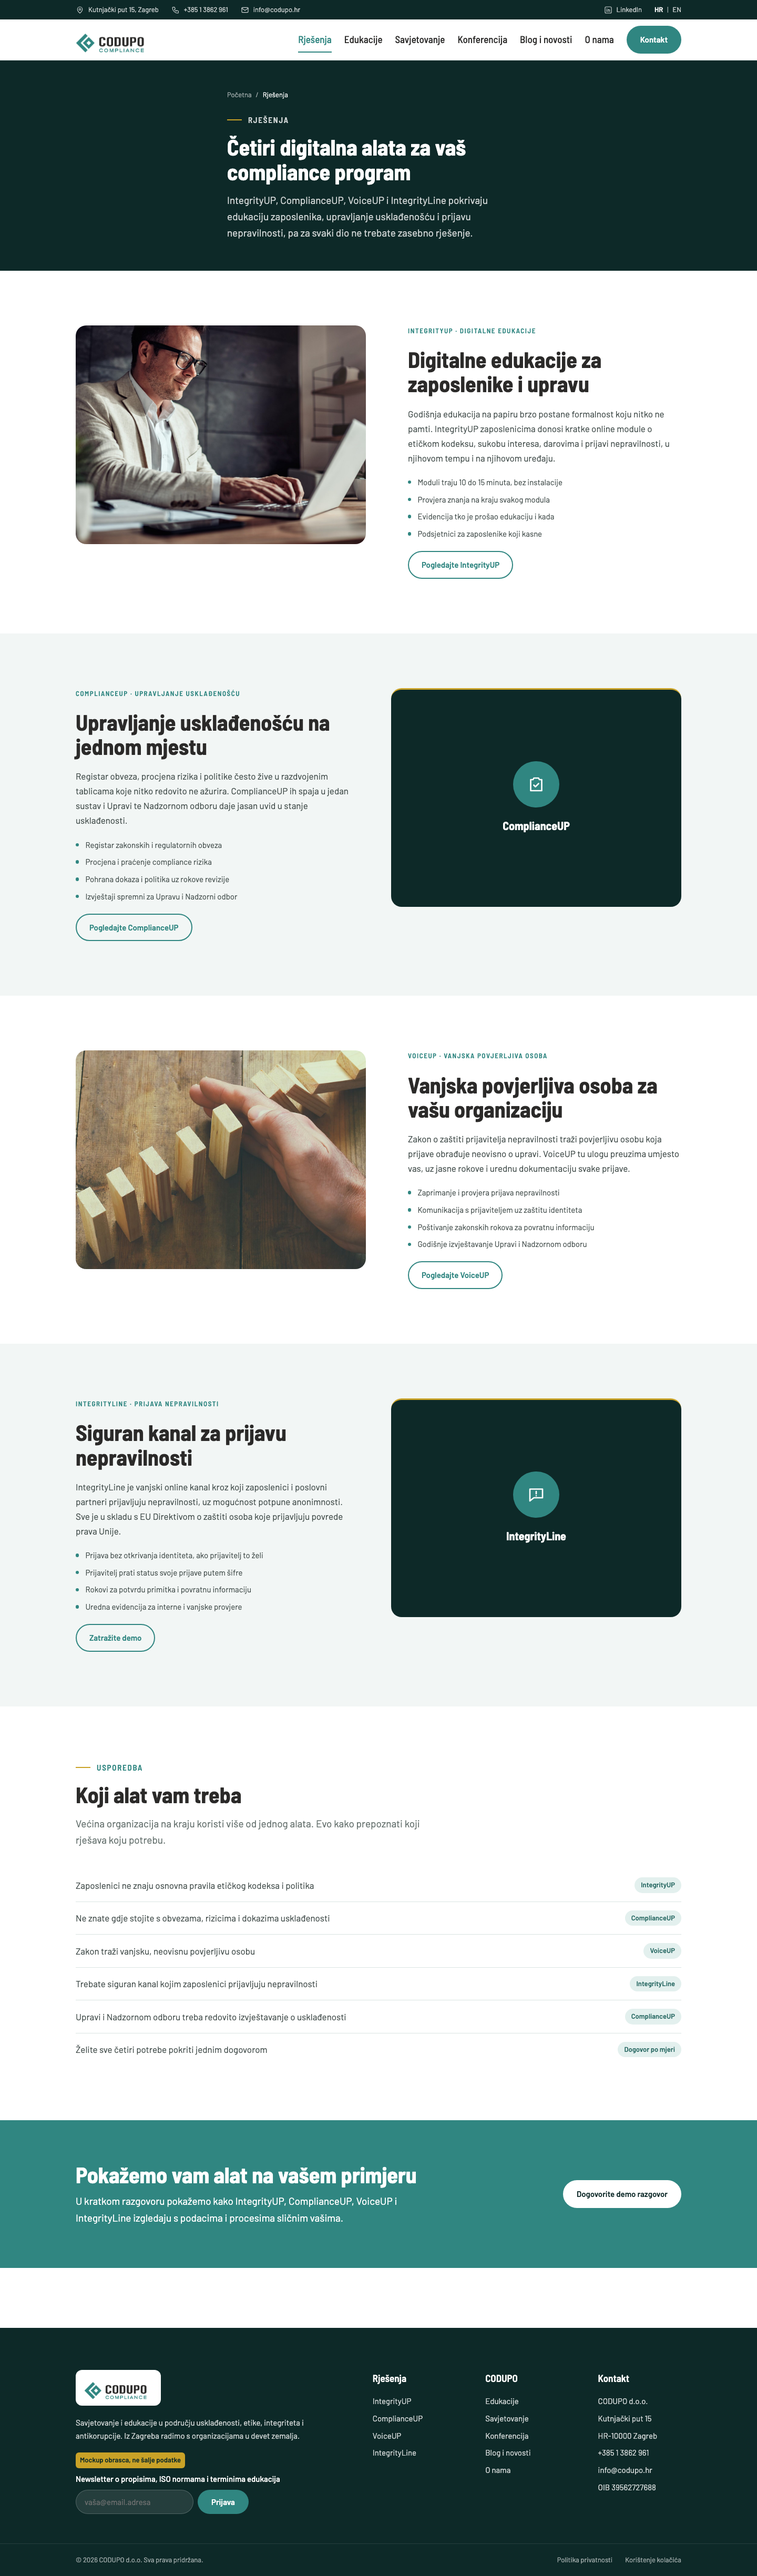
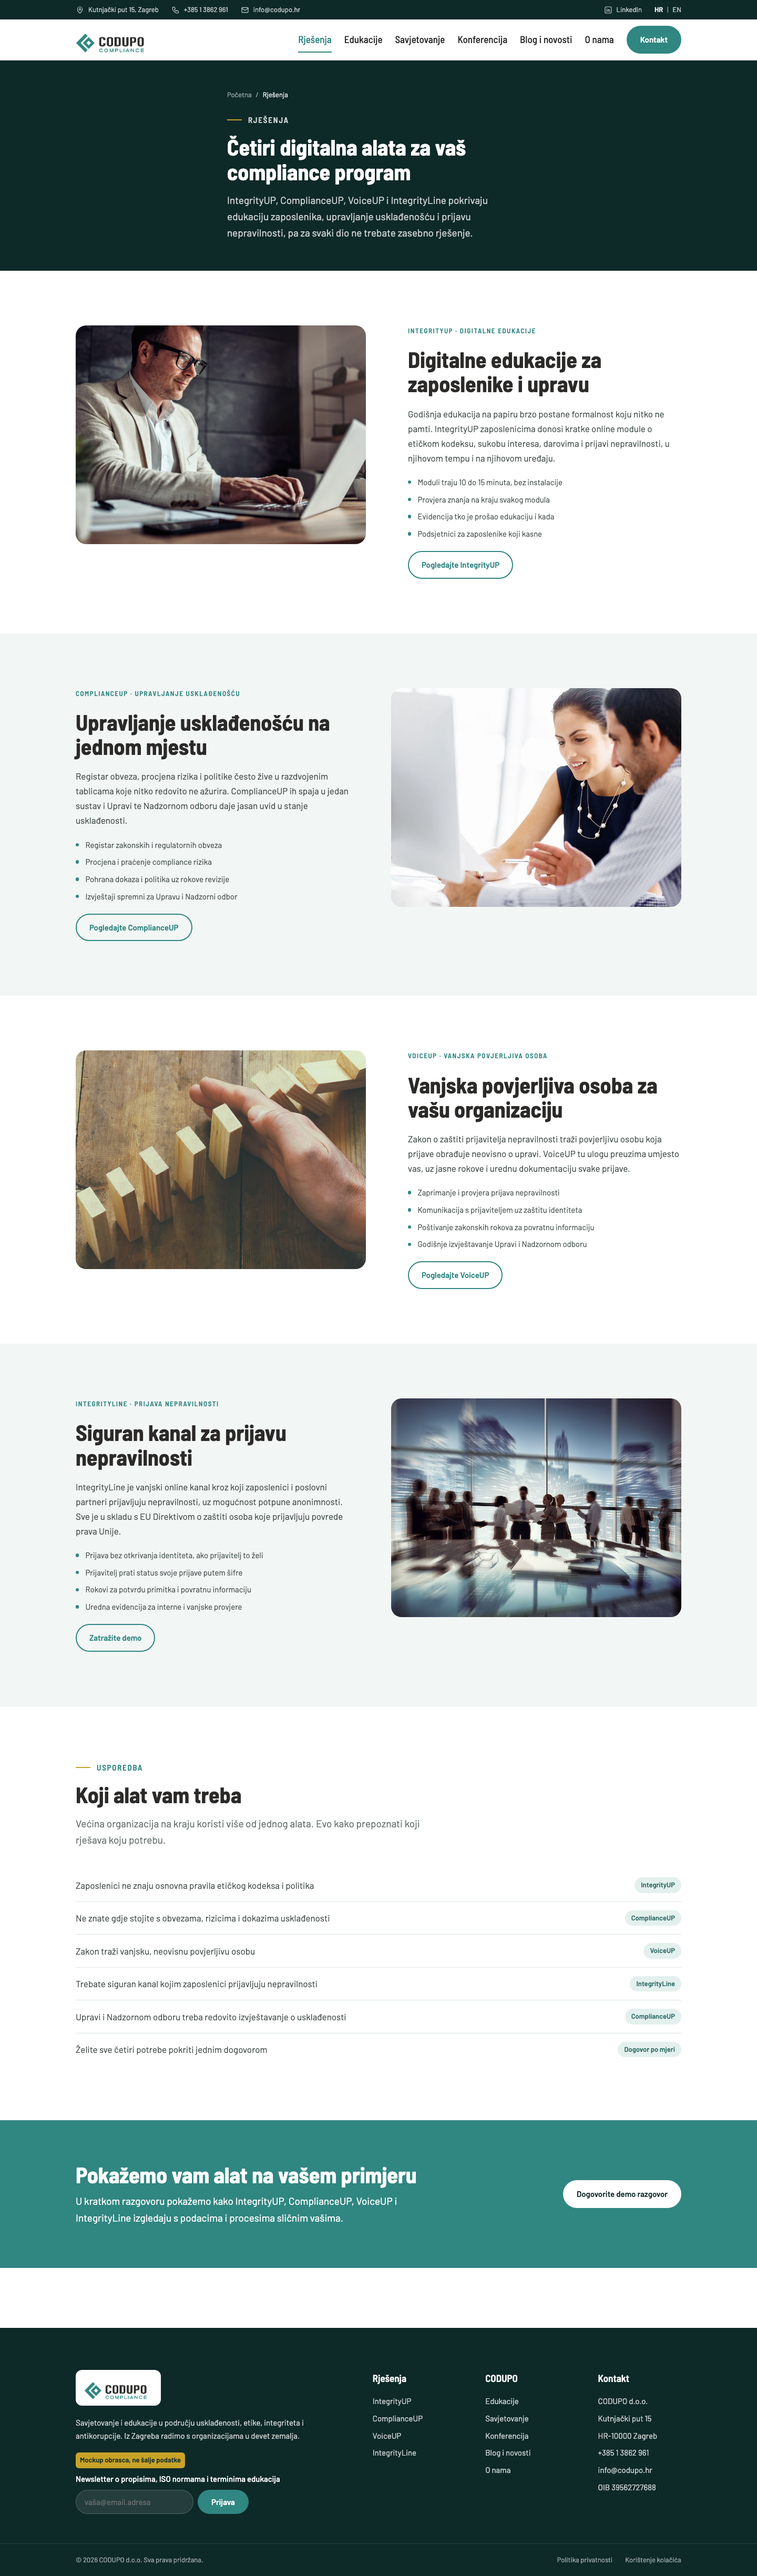
Fotografije i za ComplianceUP i IntegrityLine blokove
Zamijenjen .tool-visual ikonski panel pravim fotografijama na preostala
dva bloka (codupo-edukacije-checking-results.jpg za ComplianceUP,
codupo-edukacije-discussion.jpg za IntegrityLine), po vlasnikovoj
odluci da koristimo najmanje lošu dostupnu fotografiju umjesto panela.
Sva četiri bloka na rjesenja.html sada imaju fotografiju iz assets-src.

Changed region(s): [[0.5, 0.2498, 0.9062, 0.3747], [0.5, 0.5308, 0.9062, 0.6557]]

diff --git a/rjesenja.html b/rjesenja.html
@@ -67,10 +67,7 @@
           <a class="button-outline" href="complianceup.html">Pogledajte ComplianceUP</a>
         </div>
         <div class="split-media">
-          <div class="tool-visual">
-            <span class="tool-visual-icon"><svg class="icon-xl" viewBox="0 0 24 24" aria-hidden="true"><path d="M9 4h6l1 2h3v14H5V6h3z"/><path d="m9 13 2 2 4-4"/></svg></span>
-            <span class="tool-visual-label">ComplianceUP</span>
-          </div>
+          <img class="media-photo" src="images/codupo-edukacije-checking-results.jpg" alt="Tim pregledava izvještaj na ekranu">
         </div>
       </div>
     </section>
@@ -112,10 +109,7 @@
           <a class="button-outline" href="kontakt.html">Zatražite demo</a>
         </div>
         <div class="split-media">
-          <div class="tool-visual">
-            <span class="tool-visual-icon"><svg class="icon-xl" viewBox="0 0 24 24" aria-hidden="true"><path d="M4 5h16v11H9l-5 4z"/><path d="M12 8v3M12 13.5v.01"/></svg></span>
-            <span class="tool-visual-label">IntegrityLine</span>
-          </div>
+          <img class="media-photo" src="images/codupo-edukacije-discussion.jpg" alt="Poslovni ljudi u razgovoru u uredu s pogledom na grad">
         </div>
       </div>
     </section>

diff --git a/CLAUDE.md b/CLAUDE.md
@@ -264,11 +264,13 @@ Za svaku stranicu vrijedi:
 
 Svrha: pregled četiriju digitalnih alata i ulaz u podstranice.
 
-Napomena o slikama: pregledano je preko 25 fotografija iz `assets-src/` za ova četiri bloka. Velika većina je otrcan WordPress stock/clipart (natpisi „COMPLIANCE”, „INTEGRITY” preko slike, crtani kompasi, stock modeli) koji ne pristaje uz pecb.com smjer, ili su doslovno `shutterstock_*`/`Depositphotos_*` datoteke s neriješenom licencom (otvoreno pitanje 4). Pronađene su dvije fotografije bez teksta i bez `shutterstock_` oznake koje pristaju uz dizajn:
-- `images/compliance-bez-ičega-scaled.jpg` (čovjek radi na laptopu) za IntegrityUP.
-- `images/Slider01.jpg` (ruka zaustavlja domino kockice) za VoiceUP.
+Napomena o slikama: pregledano je preko 30 fotografija iz `assets-src/` za ova četiri bloka. Velika većina je otrcan WordPress stock/clipart (natpisi „COMPLIANCE”, „INTEGRITY” preko slike, crtani kompasi, grupa s podignutim palčevima, stock modeli) koji ne pristaje uz pecb.com smjer, ili su doslovno `shutterstock_*`/`Depositphotos_*` datoteke s neriješenom licencom (otvoreno pitanje 4). Vlasnik je 4. 11. 2026. potvrdio da ipak koristimo najbolje dostupno umjesto `.tool-visual` ikonskog panela za sva četiri bloka:
+- **IntegrityUP** → `images/compliance-bez-ičega-scaled.jpg` (čovjek radi na laptopu).
+- **ComplianceUP** → `images/codupo-edukacije-checking-results.jpg` (dvoje ljudi pregledava izvještaj na ekranu).
+- **VoiceUP** → `images/Slider01.jpg` (ruka zaustavlja domino kockice).
+- **IntegrityLine** → `images/codupo-edukacije-discussion.jpg` (siluete u sastanku, dvostruka ekspozicija nebodera).
 
-ComplianceUP i IntegrityLine zadržavaju `.tool-visual` ikonski panel jer ništa prikladno nije pronađeno za njih. Vlasnik je potvrdio (4. 11. 2026.) da koristimo najbolje dostupno iz `assets-src/`; ipak vrijedi kasnije zamijeniti preostala dva panela i ova dva stock izbora pravim fotografijama alata ili Silvijinim/CODUPO snimkama kad budu dostupne. Tekst za sva četiri alata (uključujući VoiceUP i IntegrityLine, prošireno naspram naslovne) i dalje čeka potvrdu vlasnika (otvoreno pitanje 1).
+Sve četiri su stock fotografije bez `shutterstock_` oznake u nazivu, ali izvor/licenca nije posebno provjerena (vidi otvoreno pitanje 4). `.tool-visual` uzorak ostaje u CSS-u za buduću upotrebu, ali se trenutno nigdje ne koristi na ovoj stranici. Kad vlasnik nabavi prave fotografije alata ili CODUPO-ove snimke, sve četiri bi trebalo zamijeniti. Tekst za sva četiri alata (uključujući VoiceUP i IntegrityLine, prošireno naspram naslovne) i dalje čeka potvrdu vlasnika (otvoreno pitanje 1).
 
 Sekcije:
 
@@ -419,7 +421,7 @@ Sadržaj za predložak: jedan stvarni članak sa starog weba (npr. o Pravilniku 
 1. Potvrda teksta za IntegrityUP, ComplianceUP, VoiceUP i IntegrityLine (opisi su sada napisani bez izvora).
 2. Konferencija: prikazati 2026. kao održanu ili najaviti 2027.? Ima li datum i tema za 2027.?
 3. Smijemo li koristiti Artlist za zamjenu loših fotografija (troši kredite)?
-4. Licence za Shutterstock fotografije na novom webu. Dvije slike bez `shutterstock_` oznake su u upotrebi na `rjesenja.html` (`compliance-bez-ičega-scaled.jpg`, `Slider01.jpg`) uz vlasnikovo dopuštenje da koristimo najbolje dostupno iz `assets-src/`, ali izvor/licenca tih dviju nije posebno provjerena.
+4. Licence za Shutterstock fotografije na novom webu. Četiri slike bez `shutterstock_` oznake su u upotrebi na `rjesenja.html` (`compliance-bez-ičega-scaled.jpg`, `codupo-edukacije-checking-results.jpg`, `Slider01.jpg`, `codupo-edukacije-discussion.jpg`) uz vlasnikovo dopuštenje da koristimo najbolje dostupno iz `assets-src/`, ali izvor/licenca tih četiriju nije posebno provjerena.
 5. Smijemo li prikazati logotipe klijenata?
 6. Format IntegrityTalka (podcast, video, članci).
 7. Engleska verzija: preklopnik HR | EN postoji u headeru, ali EN stranice nisu u planu. Radimo li ih?
